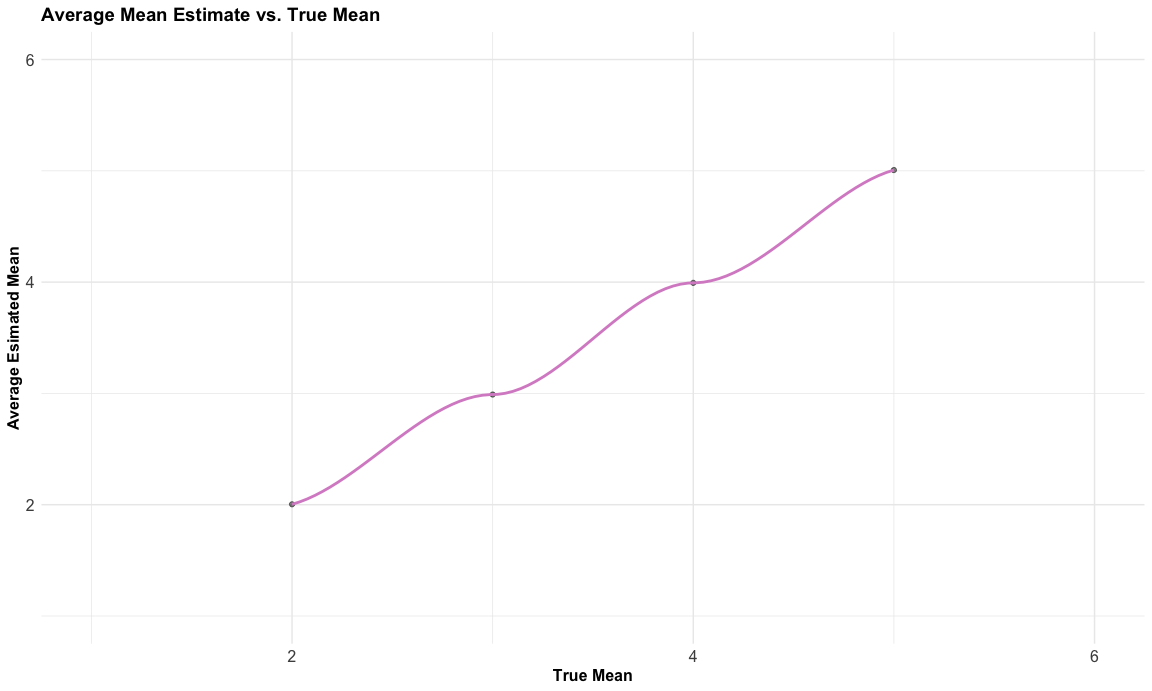
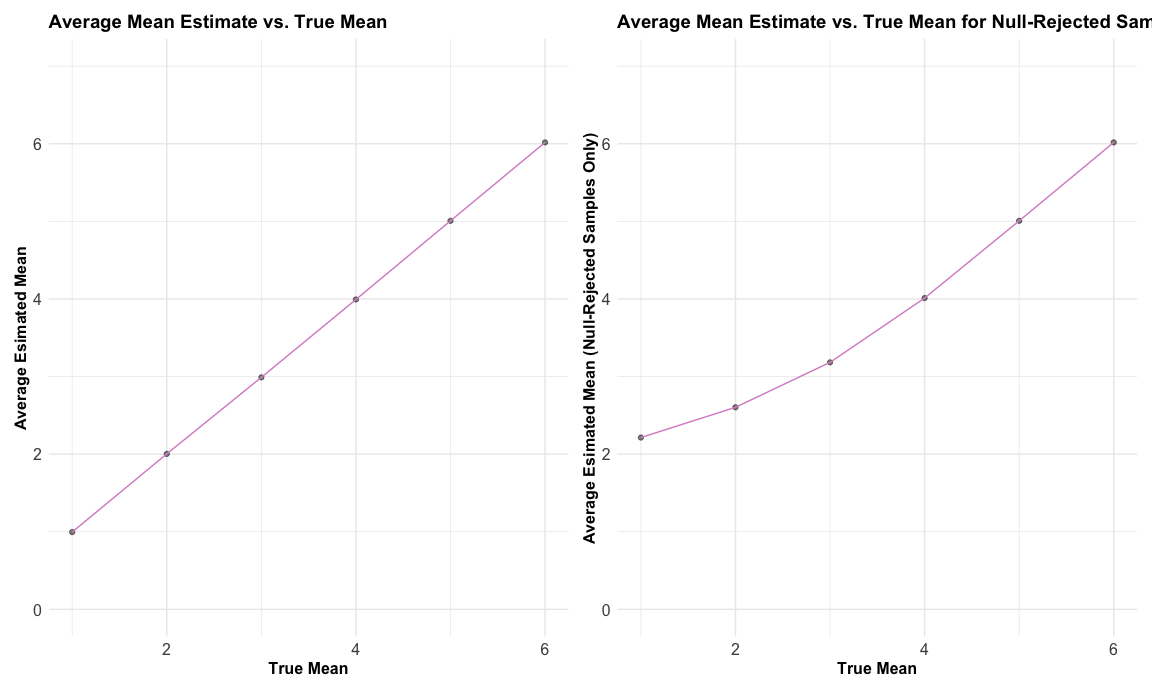
fixed plot issues

diff --git a/p8105_hw5_amz2148.md b/p8105_hw5_amz2148.md
@@ -422,8 +422,8 @@ mu_plot =
   summarize(average_mu_estimate = (mean(estimate))) %>% 
   ggplot(aes(x = true_mean, y = average_mu_estimate)) + 
   geom_point(alpha = .5, color = "black") +
-  geom_smooth(se = FALSE, color = "#d98fcc") + 
-  ylim(1, 6) +
+  geom_line(color = "#d98fcc") + 
+  ylim(0, 7) +
   theme(plot.title = element_text(size = 14, face = "bold")) +
   theme(axis.text = element_text(size = 12)) + 
   theme(axis.title = element_text(size = 12, face = "bold")) + 
@@ -432,33 +432,6 @@ mu_plot =
       x = "True Mean",
       y = "Average Esimated Mean")
 
-mu_plot
-```
-
-    ## `geom_smooth()` using method = 'loess' and formula = 'y ~ x'
-
-    ## Warning: Removed 2 rows containing non-finite values (`stat_smooth()`).
-
-    ## Warning in simpleLoess(y, x, w, span, degree = degree, parametric =
-    ## parametric, : span too small. fewer data values than degrees of freedom.
-
-    ## Warning in simpleLoess(y, x, w, span, degree = degree, parametric =
-    ## parametric, : pseudoinverse used at 1.985
-
-    ## Warning in simpleLoess(y, x, w, span, degree = degree, parametric =
-    ## parametric, : neighborhood radius 2.015
-
-    ## Warning in simpleLoess(y, x, w, span, degree = degree, parametric =
-    ## parametric, : reciprocal condition number 0
-
-    ## Warning in simpleLoess(y, x, w, span, degree = degree, parametric =
-    ## parametric, : There are other near singularities as well. 4.0602
-
-    ## Warning: Removed 2 rows containing missing values (`geom_point()`).
-
-<img src="p8105_hw5_amz2148_files/figure-gfm/graph2-1.png" width="100%" />
-
-``` r
 mu_rejected_plot = 
   iter_results_df %>% 
   filter(p_value <= 0.05) %>% 
@@ -466,8 +439,8 @@ mu_rejected_plot =
   summarize(average_mu_estimate = (mean(estimate))) %>% 
   ggplot(aes(x = true_mean, y = average_mu_estimate)) + 
   geom_point(alpha = .5, color = "black") +
-  geom_smooth(se = FALSE, color = "#d98fcc") + 
-  ylim(1, 6) +
+  geom_line(color = "#d98fcc") + 
+  ylim(0, 7) +
   theme(plot.title = element_text(size = 14, face = "bold")) +
   theme(axis.text = element_text(size = 12)) + 
   theme(axis.title = element_text(size = 12, face = "bold")) + 
@@ -479,49 +452,7 @@ mu_rejected_plot =
 mu_plot + mu_rejected_plot
 ```
 
-    ## `geom_smooth()` using method = 'loess' and formula = 'y ~ x'
-
-    ## Warning: Removed 2 rows containing non-finite values (`stat_smooth()`).
-
-    ## Warning in simpleLoess(y, x, w, span, degree = degree, parametric =
-    ## parametric, : span too small. fewer data values than degrees of freedom.
-
-    ## Warning in simpleLoess(y, x, w, span, degree = degree, parametric =
-    ## parametric, : pseudoinverse used at 1.985
-
-    ## Warning in simpleLoess(y, x, w, span, degree = degree, parametric =
-    ## parametric, : neighborhood radius 2.015
-
-    ## Warning in simpleLoess(y, x, w, span, degree = degree, parametric =
-    ## parametric, : reciprocal condition number 0
-
-    ## Warning in simpleLoess(y, x, w, span, degree = degree, parametric =
-    ## parametric, : There are other near singularities as well. 4.0602
-
-    ## Warning: Removed 2 rows containing missing values (`geom_point()`).
-
-    ## `geom_smooth()` using method = 'loess' and formula = 'y ~ x'
-
-    ## Warning: Removed 1 rows containing non-finite values (`stat_smooth()`).
-
-    ## Warning in simpleLoess(y, x, w, span, degree = degree, parametric =
-    ## parametric, : span too small. fewer data values than degrees of freedom.
-
-    ## Warning in simpleLoess(y, x, w, span, degree = degree, parametric =
-    ## parametric, : pseudoinverse used at 0.98
-
-    ## Warning in simpleLoess(y, x, w, span, degree = degree, parametric =
-    ## parametric, : neighborhood radius 2.02
-
-    ## Warning in simpleLoess(y, x, w, span, degree = degree, parametric =
-    ## parametric, : reciprocal condition number 0
-
-    ## Warning in simpleLoess(y, x, w, span, degree = degree, parametric =
-    ## parametric, : There are other near singularities as well. 4.0804
-
-    ## Warning: Removed 1 rows containing missing values (`geom_point()`).
-
-<img src="p8105_hw5_amz2148_files/figure-gfm/graph2-2.png" width="100%" />
+<img src="p8105_hw5_amz2148_files/figure-gfm/graph2-1.png" width="100%" />
 
 Is the sample average of mu-hat across tests for which the null is
 rejected approximately equal to the true value of mu? Why or why not?
